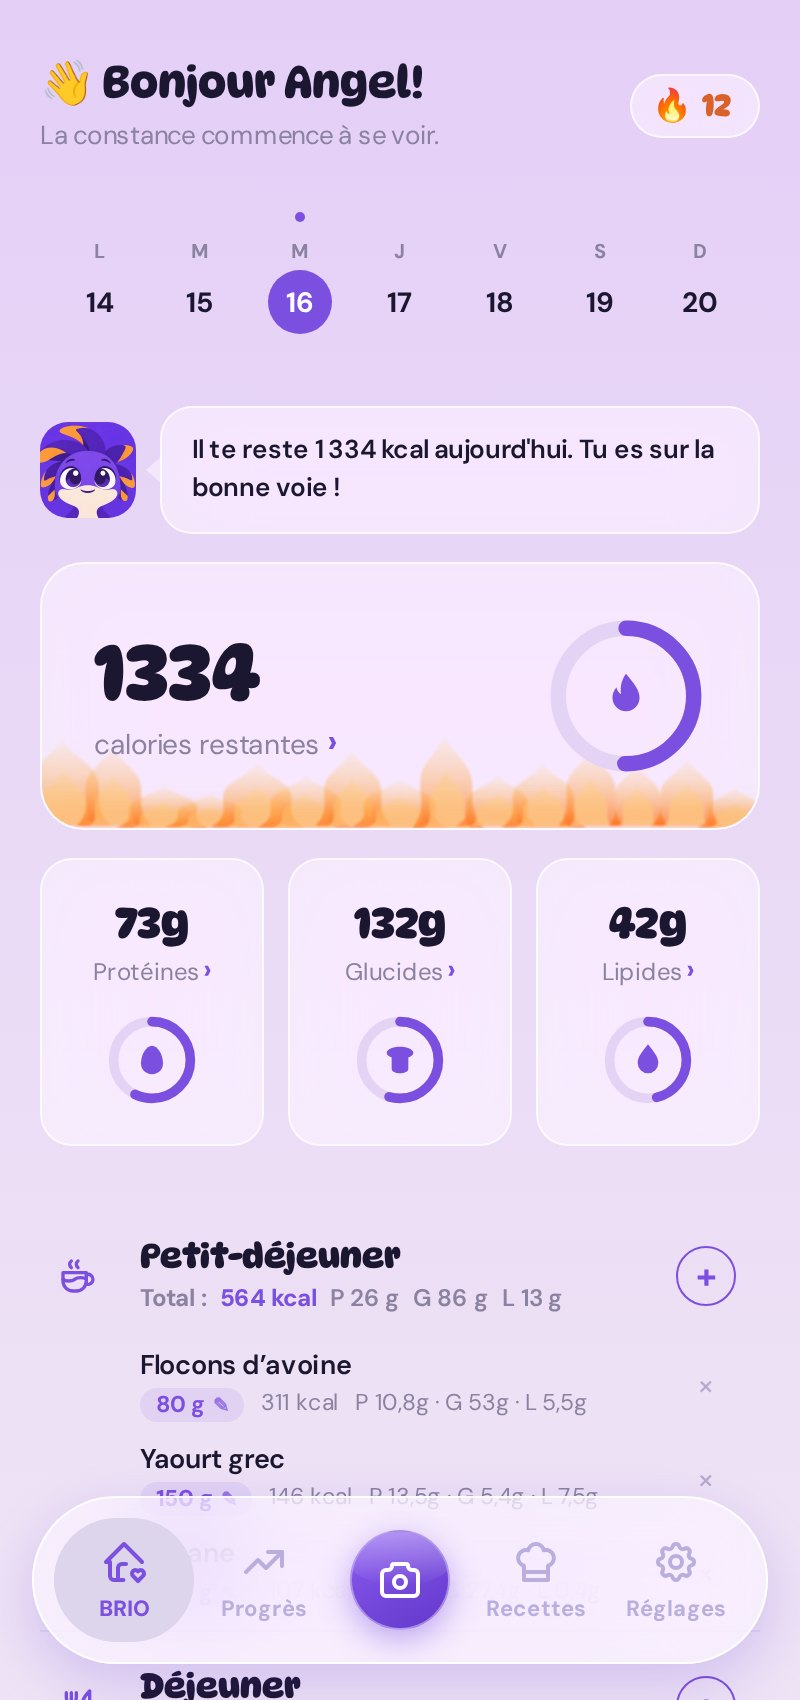
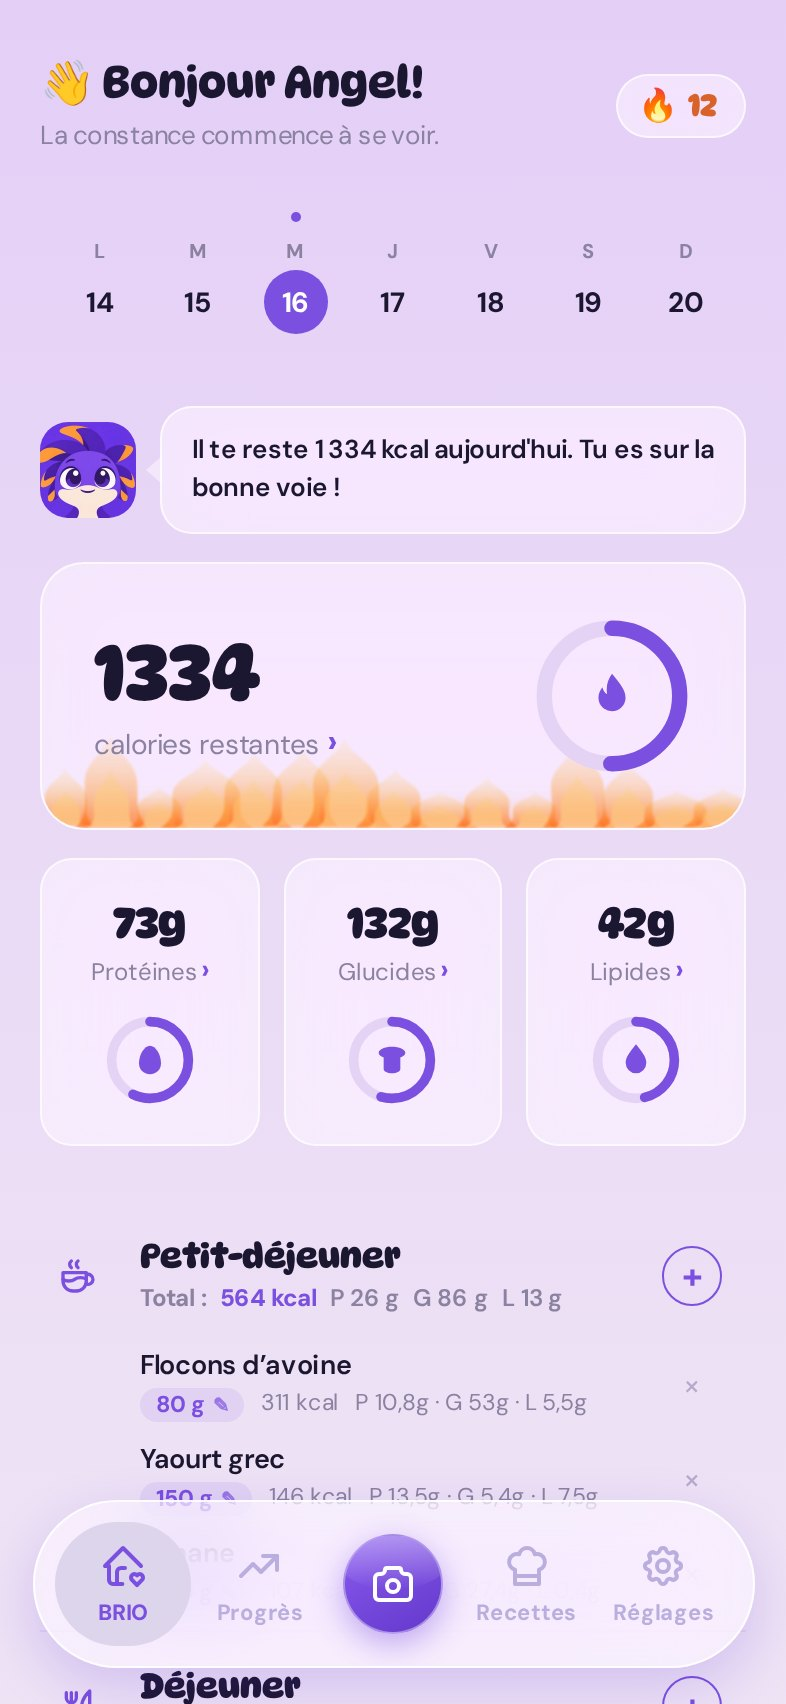
Corrige le titre et les téléphones, et passe à un cadre d'iPhone
Deux défauts venaient de mon passage de l'ouverture sur deux colonnes.

Le titre « Manger mieux » était en DM Sans : la règle qui lui donnait DynaPuff
visait « .ouverture h1 », or le bloc s'appelle désormais « .ouverture-texte ».
Le sélecteur suit, et le titre retrouve DynaPuff en 700.

Les captures étaient étirées de 44 % en hauteur : l'attribut height="850"
restait sur des images de 1704 px de haut, sans height:auto pour rétablir les
proportions. Le cadre impose maintenant lui-même le ratio 393/852 d'un
iPhone 15, et l'écran recadre au lieu de déformer — l'étirement est
structurellement impossible.

Les captures sont reprises en 393 x 852, les dimensions exactes d'un iPhone 15,
et le cadre en prend l'allure : coins arrondis, contour métallique, îlot
dynamique. La capture commence sous l'îlot, comme une app sous la barre
d'état, sinon l'îlot mangeait le « Bonjour ».

Le logo au-dessus du titre est retiré : le téléphone à côté porte déjà
l'image, et la marque est dans l'en-tête.

Vérifié : tout ce qui n'est pas DynaPuff est bien en DM Sans.

Claude-Session: https://claude.ai/code/session_01XqW4PYSaYV4pLFtP1jCYBc

diff --git a/index.html b/index.html
@@ -130,12 +130,9 @@
   a:focus-visible,button:focus-visible{outline:3px solid rgba(123,79,224,.5);outline-offset:3px;}
 
   /* ---------- ouverture ---------- */
-  .ouverture{text-align:center;padding-block:34px 56px;}
-  .mascotte{width:124px;height:124px;border-radius:32px;display:block;margin:0 auto 22px;
-    box-shadow:0 18px 40px -18px rgba(60,28,110,.55);}
-  .ouverture h1{
+  .ouverture-texte h1{
     font-family:var(--titre);font-weight:700;
-    font-size:clamp(34px,7vw,54px);line-height:1.08;margin:0;
+    font-size:clamp(32px,5.6vw,50px);line-height:1.1;margin:0;
     text-wrap:balance;
   }
   .accroche{
@@ -162,19 +159,40 @@
     .ouverture-texte .mascotte{margin-inline:0;}
   }
 
+  /* Cadre d'iPhone 15 : 393 x 852 points, soit le ratio 2.168 des captures.
+     L'écran impose ce ratio et recadre au besoin (object-fit), donc l'image ne
+     peut plus être étirée — ce qu'elle était, faute d'un height:auto. */
   .telephone{
-    position:relative;width:min(300px,84vw);margin:0 auto;
-    border-radius:44px;padding:11px;
-    background:linear-gradient(160deg,#2A1B3D,#160D24);
-    box-shadow:0 34px 70px -28px rgba(40,16,90,.72), 0 0 0 1px rgba(255,255,255,.08) inset;
+    position:relative;width:min(300px,82vw);margin:0 auto;
+    aspect-ratio:393 / 852;
+    border-radius:54px;padding:10px;
+    background:linear-gradient(155deg,#3A3247,#15111C 42%,#2C2536);
+    box-shadow:
+      0 0 0 1.5px rgba(255,255,255,.14) inset,
+      0 34px 70px -28px rgba(40,16,90,.7);
   }
-  .telephone::after{
-    /* l'encoche : ce détail suffit à faire lire l'image comme un téléphone */
-    content:'';position:absolute;top:19px;left:50%;transform:translateX(-50%);
-    width:86px;height:7px;border-radius:99px;background:rgba(255,255,255,.22);
+  .telephone-ecran{
+    position:relative;width:100%;height:100%;
+    border-radius:45px;overflow:hidden;
+    /* la teinte du haut de l'app : c'est elle qui remplit la bande d'état */
+    background:#E4CFF7;
   }
-  .telephone img{
-    display:block;width:100%;border-radius:34px;
+  /* la capture commence sous l'îlot, comme l'app sous la barre d'état d'un
+     vrai téléphone — sinon l'îlot mange le « Bonjour » */
+  .telephone-ecran img{
+    display:block;width:100%;height:calc(100% - 30px);margin-top:30px;
+    object-fit:cover;object-position:top center;
+  }
+  /* l'îlot dynamique : c'est ce détail qui fait lire un iPhone plutôt qu'un
+     rectangle noir */
+  .telephone-ilot{
+    position:absolute;top:12px;left:50%;transform:translateX(-50%);
+    width:31%;height:26px;border-radius:99px;background:#0B0810;z-index:2;
+  }
+  .telephone-ilot::after{
+    content:'';position:absolute;right:16%;top:50%;transform:translateY(-50%);
+    width:8px;height:8px;border-radius:50%;
+    background:radial-gradient(circle at 34% 34%, #3A4A6B, #0E1320 70%);
   }
   .duo-ecrans{
     display:grid;grid-template-columns:repeat(auto-fit,minmax(230px,1fr));
@@ -261,7 +279,6 @@
   <main>
     <div class="ouverture-duo">
       <div class="ouverture-texte">
-        <img class="mascotte" src="icons/icon-512.png" alt="Brioche, la mascotte de BRIO" width="124" height="124">
         <h1>Manger mieux, sans y passer ses journées</h1>
         <p class="accroche">
           BRIO calcule tes calories et tes macros depuis ton profil, puis te laisse
@@ -275,10 +292,11 @@
       </div>
 
       <div class="telephone">
-        <img src="img/app-accueil.jpg"
-             alt="L'accueil de BRIO : 1334 calories restantes, les anneaux de protéines, glucides et lipides, et les repas de la journée."
-             width="400" height="850" loading="eager">
-      </div>
+          <div class="telephone-ilot" aria-hidden="true"></div>
+          <div class="telephone-ecran">
+            <img src="img/app-accueil.jpg" alt="L'accueil de BRIO : 1334 calories restantes, les anneaux de protéines, glucides et lipides, et les repas de la journée." width="786" height="1704" loading="eager">
+          </div>
+        </div>
     </div>
 
     <section id="fonctions">
@@ -366,13 +384,19 @@
       <div class="duo-ecrans">
         <div>
           <div class="telephone">
-            <img src="img/app-saisie.jpg" alt="La saisie d'un repas dans BRIO : la recherche d'aliments, avec des suggestions et les champs de quantité et de macros." width="400" height="850" loading="lazy">
+            <div class="telephone-ilot" aria-hidden="true"></div>
+            <div class="telephone-ecran">
+              <img src="img/app-saisie.jpg" alt="La saisie d'un repas dans BRIO : la recherche d'aliments, avec des suggestions et les champs de quantité et de macros." width="786" height="1704" loading="lazy">
+            </div>
           </div>
           <p class="legende">Cherche un aliment, ou scanne son code-barres.</p>
         </div>
         <div>
           <div class="telephone">
-            <img src="img/app-repas.jpg" alt="Le journal de BRIO : petit-déjeuner, déjeuner et snack détaillés avec leurs calories et macros, et le suivi de l'hydratation." width="400" height="850" loading="lazy">
+            <div class="telephone-ilot" aria-hidden="true"></div>
+            <div class="telephone-ecran">
+              <img src="img/app-repas.jpg" alt="Le journal de BRIO : petit-déjeuner, déjeuner et snack détaillés avec leurs calories et macros, et le suivi de l'hydratation." width="786" height="1704" loading="lazy">
+            </div>
           </div>
           <p class="legende">Chaque aliment avec ses macros, et l'eau du jour.</p>
         </div>
